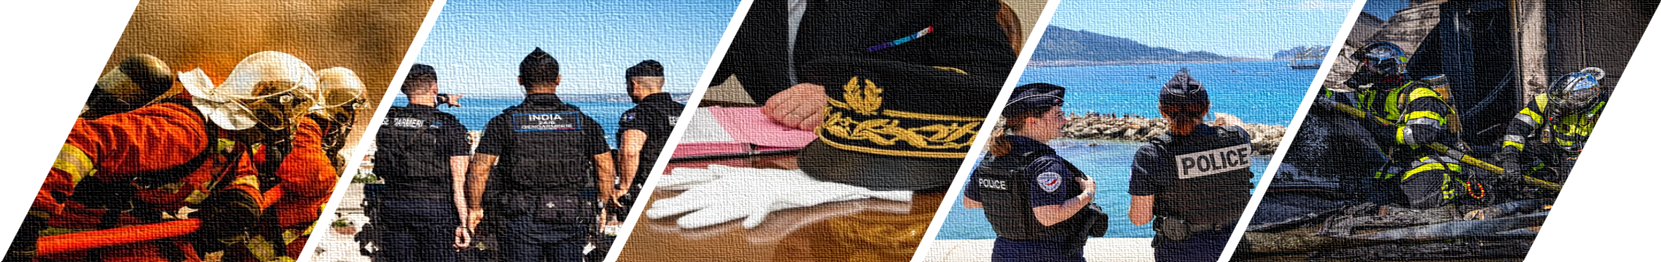
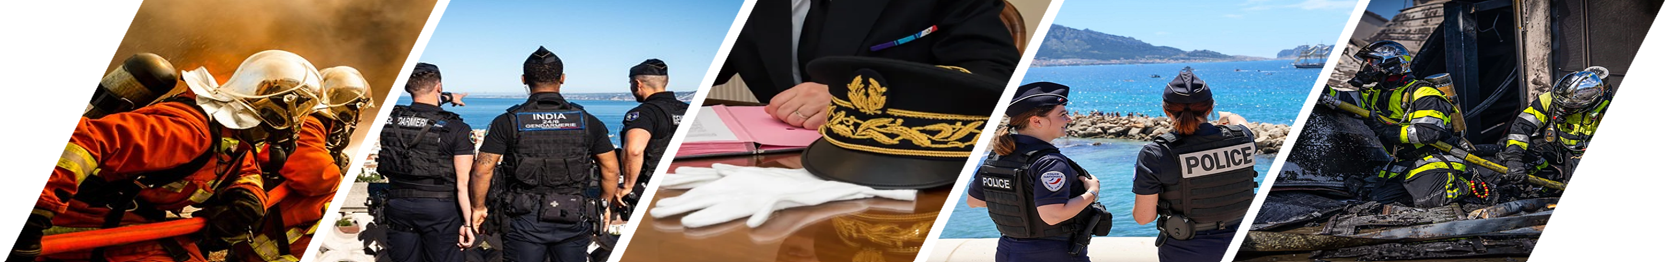
Evenements

diff --git a/frontend/assets/app.js b/frontend/assets/app.js
@@ -1817,44 +1817,41 @@ function ensureEventWorkspaceUI() {
   const timelineCard = document.getElementById('eventTimelineCard');
   if (!activeCard || !timelineCard) return;
   activeCard.classList.add('event-selector-card');
-  const shell = document.createElement('section');
-  shell.className = 'event-shell';
-  shell.id = 'eventShell';
-  shell.innerHTML = `
-    <aside class="event-shell-sidebar" id="eventShellSidebar"></aside>
-    <div class="event-shell-main">
-      <div class="card event-context-card" id="eventWorkspaceContext"></div>
-      <div class="card" id="eventWorkspaceCard">
-        <div class="card-header">
-          <h2 class="card-title">Conduite de l'événement</h2>
-          <div class="page-subtabs" id="eventWorkspaceTabs">
-            <button class="page-subtab active" data-workspace-tab="overview" type="button" onclick="showEventWorkspaceTab('overview')">Vue d'ensemble</button>
-            <button class="page-subtab" data-workspace-tab="timeline" type="button" onclick="showEventWorkspaceTab('timeline')">Main courante</button>
-            <button class="page-subtab" data-workspace-tab="ps" type="button" onclick="showEventWorkspaceTab('ps')">Points de situation</button>
-            <button class="page-subtab" data-workspace-tab="command" type="button" onclick="showEventWorkspaceTab('command')">Messages</button>
-          </div>
+  const contextCard = document.createElement('div');
+  contextCard.className = 'card event-context-card';
+  contextCard.id = 'eventWorkspaceContext';
+  const workspace = document.createElement('div');
+  workspace.className = 'card';
+  workspace.id = 'eventWorkspaceCard';
+  workspace.innerHTML = `
+    <div class="card-header">
+      <h2 class="card-title">Conduite de l'événement</h2>
+      <div class="page-subtabs" id="eventWorkspaceTabs">
+        <button class="page-subtab active" data-workspace-tab="overview" type="button" onclick="showEventWorkspaceTab('overview')">Vue d'ensemble</button>
+        <button class="page-subtab" data-workspace-tab="timeline" type="button" onclick="showEventWorkspaceTab('timeline')">Main courante</button>
+        <button class="page-subtab" data-workspace-tab="ps" type="button" onclick="showEventWorkspaceTab('ps')">Points de situation</button>
+        <button class="page-subtab" data-workspace-tab="command" type="button" onclick="showEventWorkspaceTab('command')">Messages</button>
+      </div>
+    </div>
+    <div class="card-body event-workspace">
+      <div id="eventWorkspaceOverview" class="event-workspace-panel active"></div>
+      <div id="eventWorkspaceTimeline" class="event-workspace-panel"></div>
+      <div id="eventWorkspacePs" class="event-workspace-panel">
+        <div class="grid-2">
+          <div class="card event-subcard"><div class="card-header"><h2 class="card-title">Liste des points de situation</h2><div class="list-actions"><button class="fr-btn" type="button" onclick="openPSForm()">Ajouter</button></div></div><div class="card-body"><input class="list-search" id="eventPsListSearch" type="search" placeholder="Rechercher par numéro, auteur, statut…" oninput="renderPSList()"><div id="eventPsList"></div></div></div>
+          <div class="card event-subcard"><div class="card-header"><h2 class="card-title">Aperçu</h2><div class="list-actions"><label class="check"><input id="eventPsApplySignature" type="checkbox"><span>Apposer une signature</span></label><button class="fr-btn small" type="button" onclick="openPrintWindow()">Exporter PDF</button><button class="fr-btn secondary small" type="button" onclick="editSelectedPS()">Modifier</button><button class="fr-btn danger small" type="button" onclick="deleteSelectedPS()">Supprimer</button></div></div><div class="card-body" id="eventPsPreview"><p class="help">Sélectionnez un point de situation.</p></div></div>
         </div>
-        <div class="card-body event-workspace">
-          <div id="eventWorkspaceOverview" class="event-workspace-panel active"></div>
-          <div id="eventWorkspaceTimeline" class="event-workspace-panel"></div>
-          <div id="eventWorkspacePs" class="event-workspace-panel">
-            <div class="grid-2">
-              <div class="card event-subcard"><div class="card-header"><h2 class="card-title">Liste des points de situation</h2><div class="list-actions"><button class="fr-btn" type="button" onclick="openPSForm()">Ajouter</button></div></div><div class="card-body"><input class="list-search" id="eventPsListSearch" type="search" placeholder="Rechercher par numéro, auteur, statut…" oninput="renderPSList()"><div id="eventPsList"></div></div></div>
-              <div class="card event-subcard"><div class="card-header"><h2 class="card-title">Aperçu</h2><div class="list-actions"><label class="check"><input id="eventPsApplySignature" type="checkbox"><span>Apposer une signature</span></label><button class="fr-btn small" type="button" onclick="openPrintWindow()">Exporter PDF</button><button class="fr-btn secondary small" type="button" onclick="editSelectedPS()">Modifier</button><button class="fr-btn danger small" type="button" onclick="deleteSelectedPS()">Supprimer</button></div></div><div class="card-body" id="eventPsPreview"><p class="help">Sélectionnez un point de situation.</p></div></div>
-            </div>
-          </div>
-          <div id="eventWorkspaceCommand" class="event-workspace-panel">
-            <div class="grid-2">
-              <div class="card event-subcard"><div class="card-header"><h2 class="card-title">Liste des messages</h2><div class="list-actions"><button class="fr-btn" type="button" onclick="openCommandForm()">Nouveau message</button></div></div><div class="card-body"><input class="list-search" id="eventCommandListSearch" type="search" placeholder="Rechercher par numéro, événement, statut…" oninput="renderCommandList()"><div id="eventCommandList"></div></div></div>
-              <div class="card event-subcard"><div class="card-header"><h2 class="card-title">Aperçu</h2><div class="list-actions"><label class="check"><input id="eventCmdApplySignature" type="checkbox"><span>Apposer une signature</span></label><button class="fr-btn small" type="button" onclick="exportCommandPDF()">Exporter PDF</button><button class="fr-btn secondary small" type="button" onclick="openCommandForm(state.selectedCommandId)">Modifier</button><button class="fr-btn danger small" type="button" onclick="deleteSelectedCommand()">Supprimer</button></div></div><div class="card-body" id="eventCommandPreview"><p class="help">Sélectionnez un message de commandement.</p></div></div>
-            </div>
-          </div>
+      </div>
+      <div id="eventWorkspaceCommand" class="event-workspace-panel">
+        <div class="grid-2">
+          <div class="card event-subcard"><div class="card-header"><h2 class="card-title">Liste des messages</h2><div class="list-actions"><button class="fr-btn" type="button" onclick="openCommandForm()">Nouveau message</button></div></div><div class="card-body"><input class="list-search" id="eventCommandListSearch" type="search" placeholder="Rechercher par numéro, événement, statut…" oninput="renderCommandList()"><div id="eventCommandList"></div></div></div>
+          <div class="card event-subcard"><div class="card-header"><h2 class="card-title">Aperçu</h2><div class="list-actions"><label class="check"><input id="eventCmdApplySignature" type="checkbox"><span>Apposer une signature</span></label><button class="fr-btn small" type="button" onclick="exportCommandPDF()">Exporter PDF</button><button class="fr-btn secondary small" type="button" onclick="openCommandForm(state.selectedCommandId)">Modifier</button><button class="fr-btn danger small" type="button" onclick="deleteSelectedCommand()">Supprimer</button></div></div><div class="card-body" id="eventCommandPreview"><p class="help">Sélectionnez un message de commandement.</p></div></div>
         </div>
       </div>
     </div>
   `;
-  activeCard.after(shell);
-  document.getElementById('eventShellSidebar')?.appendChild(activeCard);
+  activeCard.after(contextCard);
+  contextCard.after(workspace);
   document.getElementById('eventWorkspaceTimeline')?.appendChild(timelineCard);
 }
 
@@ -2141,7 +2138,7 @@ function renderEventWorkspaceContext() {
     mount.innerHTML = `
       <div class="card-body event-context-empty">
         <h2 class="card-title">Aucun événement sélectionné</h2>
-        <p class="help">Choisissez un événement dans la colonne de gauche pour accéder à la main courante, aux points de situation et aux messages.</p>
+        <p class="help">Choisissez un événement dans la liste pour accéder à la main courante, aux points de situation et aux messages.</p>
       </div>
     `;
     return;
@@ -2153,7 +2150,7 @@ function renderEventWorkspaceContext() {
   const lastCommand = commandItems[0];
   mount.innerHTML = `
     <div class="card-header">
-      <div>
+      <div class="event-context-heading">
         <h2 class="card-title">${esc(event.title || 'Événement')}</h2>
         <div class="event-meta">
           <span>${esc(event.type || 'Type non renseigné')}</span>
@@ -2169,20 +2166,22 @@ function renderEventWorkspaceContext() {
       </div>
     </div>
     <div class="card-body">
-      <div class="event-context-kpis">
-        <div class="event-context-kpi"><strong>${timelineItems.length}</strong><span>Entrées</span></div>
-        <div class="event-context-kpi"><strong>${psItems.length}</strong><span>Points de situation</span></div>
-        <div class="event-context-kpi"><strong>${commandItems.length}</strong><span>Messages</span></div>
-        <div class="event-context-kpi"><strong>${esc(event.status || 'Actif')}</strong><span>Statut</span></div>
-      </div>
-      <div class="event-context-grid">
-        <div class="event-context-block">
-          <div class="event-context-label">Dernier point de situation</div>
-          <div class="event-context-value">${lastPs ? `PS ${esc(lastPs.number || '')} · ${esc(formatDateTimeValueFR(lastPs.updatedAt || lastPs.createdAt || ''))}` : 'Aucun point de situation'}</div>
+      <div class="event-context-summary">
+        <div class="event-context-facts">
+          <div class="event-context-line"><span class="event-context-label">Statut</span><strong class="event-context-value">${esc(event.status || 'Actif')}</strong></div>
+          <div class="event-context-line"><span class="event-context-label">Entrées de main courante</span><strong class="event-context-value">${timelineItems.length}</strong></div>
+          <div class="event-context-line"><span class="event-context-label">Points de situation</span><strong class="event-context-value">${psItems.length}</strong></div>
+          <div class="event-context-line"><span class="event-context-label">Messages</span><strong class="event-context-value">${commandItems.length}</strong></div>
         </div>
-        <div class="event-context-block">
-          <div class="event-context-label">Dernier message</div>
-          <div class="event-context-value">${lastCommand ? `${esc(lastCommand.typeLabel || 'Message')} · ${esc(formatDateTimeValueFR(lastCommand.updatedAt || lastCommand.createdAt || ''))}` : 'Aucun message de commandement'}</div>
+        <div class="event-context-updates">
+          <div class="event-context-block">
+            <div class="event-context-label">Dernier point de situation</div>
+            <div class="event-context-value">${lastPs ? `PS ${esc(lastPs.number || '')} · ${esc(formatDateTimeValueFR(lastPs.updatedAt || lastPs.createdAt || ''))}` : 'Aucun point de situation'}</div>
+          </div>
+          <div class="event-context-block">
+            <div class="event-context-label">Dernier message</div>
+            <div class="event-context-value">${lastCommand ? `${esc(lastCommand.typeLabel || 'Message')} · ${esc(formatDateTimeValueFR(lastCommand.updatedAt || lastCommand.createdAt || ''))}` : 'Aucun message de commandement'}</div>
+          </div>
         </div>
       </div>
     </div>
@@ -2201,9 +2200,9 @@ function renderEventOverviewSummary() {
   const commandItems = getActiveItems(state.commandMessages).filter((item) => item.eventId === event.id);
   const lastLog = getEventTimelineItems(event.id)[0];
   mount.innerHTML = `
-    <div class="event-overview-grid">
+    <div class="event-overview-grid event-overview-grid-simple">
       <div class="card event-subcard">
-        <div class="card-header"><h2 class="card-title">Situation de l'événement</h2></div>
+        <div class="card-header"><h2 class="card-title">Résumé opérationnel</h2></div>
         <div class="card-body">
           <div class="info-pairs">
             <div><strong>Niveau</strong><br>${esc(event.level || 'Non renseigné')}</div>
@@ -2211,21 +2210,23 @@ function renderEventOverviewSummary() {
             <div><strong>Type</strong><br>${esc(event.type || 'Non renseigné')}</div>
             <div><strong>ID Synergi</strong><br>${esc(event.synergi || 'Non renseigné')}</div>
           </div>
+          <div class="event-overview-note">
+            ${lastLog ? `<strong>Dernière activité</strong><br>${esc(formatDateTimeValueFR(lastLog.date || ''))} · ${esc(lastLog.title || '')}` : 'Aucune activité enregistrée pour le moment.'}
+          </div>
         </div>
       </div>
       <div class="card event-subcard">
-        <div class="card-header"><h2 class="card-title">Dernière activité</h2></div>
-        <div class="card-body">
-          ${lastLog ? `<div class="event-context-label">${esc(formatDateTimeValueFR(lastLog.date || ''))}</div><div class="event-context-value">${esc(lastLog.title || '')}</div><p class="help">${esc(lastLog.detail || '')}</p>` : '<p class="help">Aucune activité enregistrée.</p>'}
-        </div>
-      </div>
-      <div class="card event-subcard">
-        <div class="card-header"><h2 class="card-title">Production documentaire</h2></div>
+        <div class="card-header"><h2 class="card-title">Documents et actions</h2></div>
         <div class="card-body">
           <div class="event-overview-list">
             <div><strong>${psItems.length}</strong><span>Points de situation</span></div>
             <div><strong>${commandItems.length}</strong><span>Messages de commandement</span></div>
             <div><strong>${getEventTimelineItems(event.id).length}</strong><span>Entrées de main courante</span></div>
+          </div>
+          <div class="event-overview-actions">
+            <button class="fr-btn small" type="button" onclick="showEventWorkspaceTab('timeline')">Ouvrir la main courante</button>
+            <button class="fr-btn secondary small" type="button" onclick="showEventWorkspaceTab('ps')">Voir les points de situation</button>
+            <button class="fr-btn secondary small" type="button" onclick="showEventWorkspaceTab('command')">Voir les messages</button>
           </div>
         </div>
       </div>
@@ -2266,21 +2267,21 @@ function renderEvents() {
     const timelineCount = getEventTimelineItems(e.id).length;
     return `<div class="event-card">
       <div class="event-card-head">
-        <div>
+        <div class="event-card-main">
           <h3>${esc(e.title)}</h3>
           <div class="event-meta">
             <span>${esc(e.type || '')}</span>
             <span>${esc(e.location || '')}</span>
             <span>${esc(e.level || '')}</span>
+            ${e.synergi ? `<span>ID Synergi ${esc(e.synergi)}</span>` : ''}
           </div>
         </div>
-        <span class="badge ${isOpen ? 'success' : 'info'}">${isOpen ? 'Ouvert' : 'Ferme'}</span>
+        <span class="badge ${isOpen ? 'success' : 'info'}">${isOpen ? 'Sélectionné' : 'Disponible'}</span>
       </div>
       <div class="event-card-stats">
-        <span>${timelineCount} entree(s)</span>
+        <span>${timelineCount} entrée(s)</span>
         <span>${psCount} PS</span>
         <span>${cmdCount} message(s)</span>
-        ${e.synergi ? `<span>ID ${esc(e.synergi)}</span>` : ''}
       </div>
       <div class="event-actions">
         ${e.status === 'Archivé'

diff --git a/frontend/assets/app.css b/frontend/assets/app.css
@@ -700,11 +700,7 @@ dialog .tool-actions,dialog .list-actions{justify-content:flex-end}
 .events-toolbar{display:flex;flex-wrap:wrap;gap:.75rem;align-items:flex-start;margin-bottom:1rem}
 .events-toolbar .list-search{margin:0;min-width:18rem;flex:1 1 20rem}
 .page-header .event-page-actions{display:flex;flex-wrap:nowrap;gap:.75rem;align-items:center;overflow-x:auto}
-.event-shell{display:grid;grid-template-columns:minmax(18rem,24rem) minmax(0,1fr);gap:1rem;align-items:start}
-.event-shell-sidebar,
-.event-shell-main{min-width:0}
-.event-shell-sidebar .card{position:sticky;top:0}
-.event-shell-sidebar .card-header{padding-bottom:.9rem}
+.event-selector-card{margin-bottom:1rem}
 .event-selector-card .card-body{padding-top:1rem}
 .event-workspace{display:grid;gap:1rem}
 .event-workspace-panel{display:none}
@@ -717,25 +713,30 @@ dialog .tool-actions,dialog .list-actions{justify-content:flex-end}
 .event-title-block{display:flex;flex-direction:column;gap:.15rem}
 .event-title-block .event-label{font-weight:400;color:var(--text)}
 .event-title-block .table-meta{display:block;font-size:.8125rem;color:var(--text-light);margin-top:.2rem}
-.event-card{padding:1rem}
+.event-card{padding:.9rem 1rem}
 .event-card + .event-card{margin-top:.75rem}
-.event-card-head{display:flex;justify-content:space-between;gap:.75rem;align-items:flex-start}
-.event-card-stats{display:flex;flex-wrap:wrap;gap:.5rem;margin:.75rem 0;color:var(--text-light);font-size:.8125rem}
-.event-card-stats span{padding:.2rem .45rem;border:1px solid var(--border);background:var(--bg-alt)}
+.event-card-head{display:flex;justify-content:space-between;gap:1rem;align-items:flex-start}
+.event-card-main{min-width:0}
+.event-card-stats{display:flex;flex-wrap:wrap;gap:.4rem;margin:.7rem 0;color:var(--text-light);font-size:.8125rem}
+.event-card-stats span{padding:.15rem .45rem;border:1px solid var(--border);background:var(--bg-alt);border-radius:.35rem}
+.event-context-card{margin-bottom:1rem}
+.event-context-heading{display:grid;gap:.35rem}
 .event-context-card .card-body{display:grid;gap:1rem}
-.event-context-kpis{display:grid;grid-template-columns:repeat(4,minmax(0,1fr));gap:.75rem}
-.event-context-kpi{padding:.85rem;border:1px solid var(--border);background:var(--bg-alt)}
-.event-context-kpi strong{display:block;font-size:1.4rem;line-height:1.1;color:var(--blue-france)}
-.event-context-kpi span{display:block;margin-top:.35rem;font-size:.8125rem;color:var(--text-light)}
-.event-context-grid{display:grid;grid-template-columns:repeat(2,minmax(0,1fr));gap:.75rem}
+.event-context-summary{display:grid;grid-template-columns:minmax(18rem,24rem) minmax(0,1fr);gap:1rem;align-items:start}
+.event-context-facts{display:grid;gap:.5rem}
+.event-context-line{display:flex;justify-content:space-between;gap:1rem;padding:.7rem .8rem;border:1px solid var(--border);background:var(--bg-alt);border-radius:.45rem}
+.event-context-updates{display:grid;grid-template-columns:repeat(2,minmax(0,1fr));gap:.75rem}
 .event-context-block{padding:.85rem;border:1px solid var(--border);background:var(--bg-alt)}
 .event-context-label{font-size:.8125rem;color:var(--text-light);margin-bottom:.35rem}
 .event-context-value{font-weight:600;color:var(--text)}
 .event-context-empty{display:grid;gap:.5rem}
 .event-overview-grid{display:grid;grid-template-columns:repeat(3,minmax(0,1fr));gap:1rem}
+.event-overview-grid-simple{grid-template-columns:minmax(0,1.1fr) minmax(0,.9fr)}
 .event-overview-list{display:grid;gap:.75rem}
 .event-overview-list div{display:flex;justify-content:space-between;gap:.75rem;padding:.75rem;border:1px solid var(--border);background:var(--bg-alt)}
 .event-overview-list strong{color:var(--blue-france)}
+.event-overview-note{margin-top:1rem;padding:.85rem;border-top:1px solid var(--border);color:var(--text)}
+.event-overview-actions{display:flex;flex-wrap:wrap;gap:.5rem;margin-top:1rem}
 
 .directory-group{margin-bottom:1rem}
 .directory-group .card-body{overflow-x:auto}
@@ -803,16 +804,14 @@ html[data-theme='dark'] .branding-preview img{background:#0f1020}
   .app-topbar{flex-wrap:wrap;align-items:flex-start}
   .top-actions{margin-left:0;flex-wrap:wrap;justify-content:flex-start}
   .kpis{grid-template-columns:repeat(3,minmax(0,1fr))}
-  .event-shell{grid-template-columns:1fr}
-  .event-shell-sidebar .card{position:static}
   .event-overview-grid{grid-template-columns:1fr}
 }
 
 @media (max-width:1100px){
   .planning-grid,.settings-grid,.stats-grid{grid-template-columns:1fr}
   .kpis{grid-template-columns:repeat(2,minmax(0,1fr))}
-  .event-context-kpis,
-  .event-context-grid{grid-template-columns:repeat(2,minmax(0,1fr))}
+  .event-context-summary{grid-template-columns:1fr}
+  .event-context-updates{grid-template-columns:repeat(2,minmax(0,1fr))}
   #userAdminCard .grid-3{grid-template-columns:repeat(2,minmax(0,1fr))}
 }
 
@@ -835,8 +834,7 @@ html[data-theme='dark'] .branding-preview img{background:#0f1020}
   .page-header .event-actions,
   .page-header .directory-actions,
   .page-header .event-page-actions{justify-content:flex-start}
-  .event-context-kpis,
-  .event-context-grid{grid-template-columns:1fr}
+  .event-context-updates{grid-template-columns:1fr}
   .event-card-head{flex-direction:column}
   #userAdminCard .grid-3{grid-template-columns:1fr}
 }
